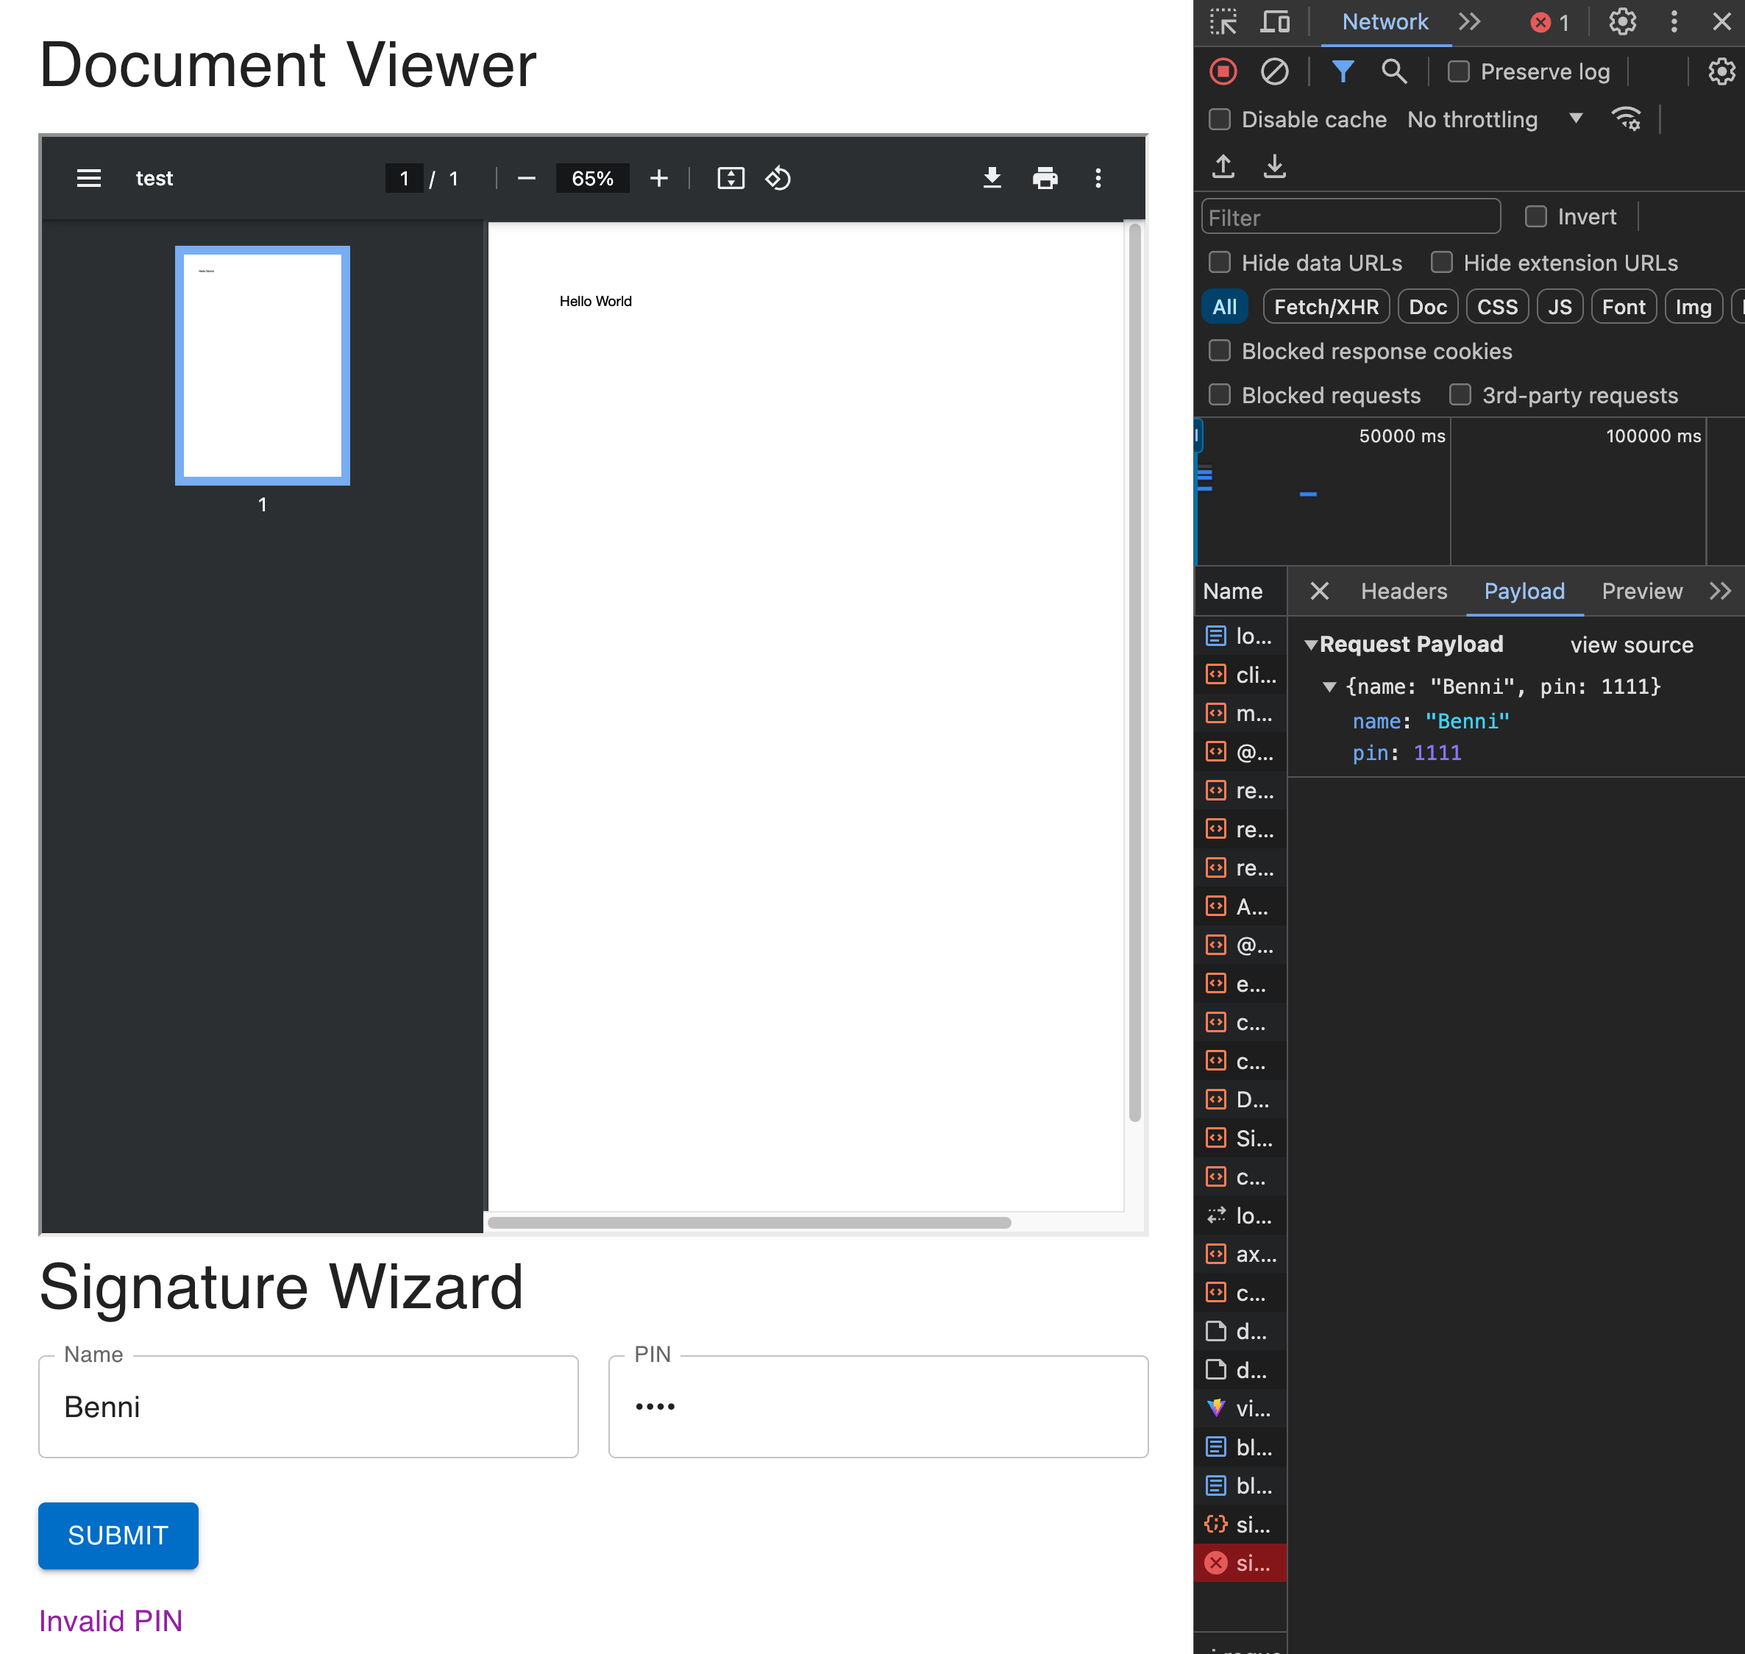
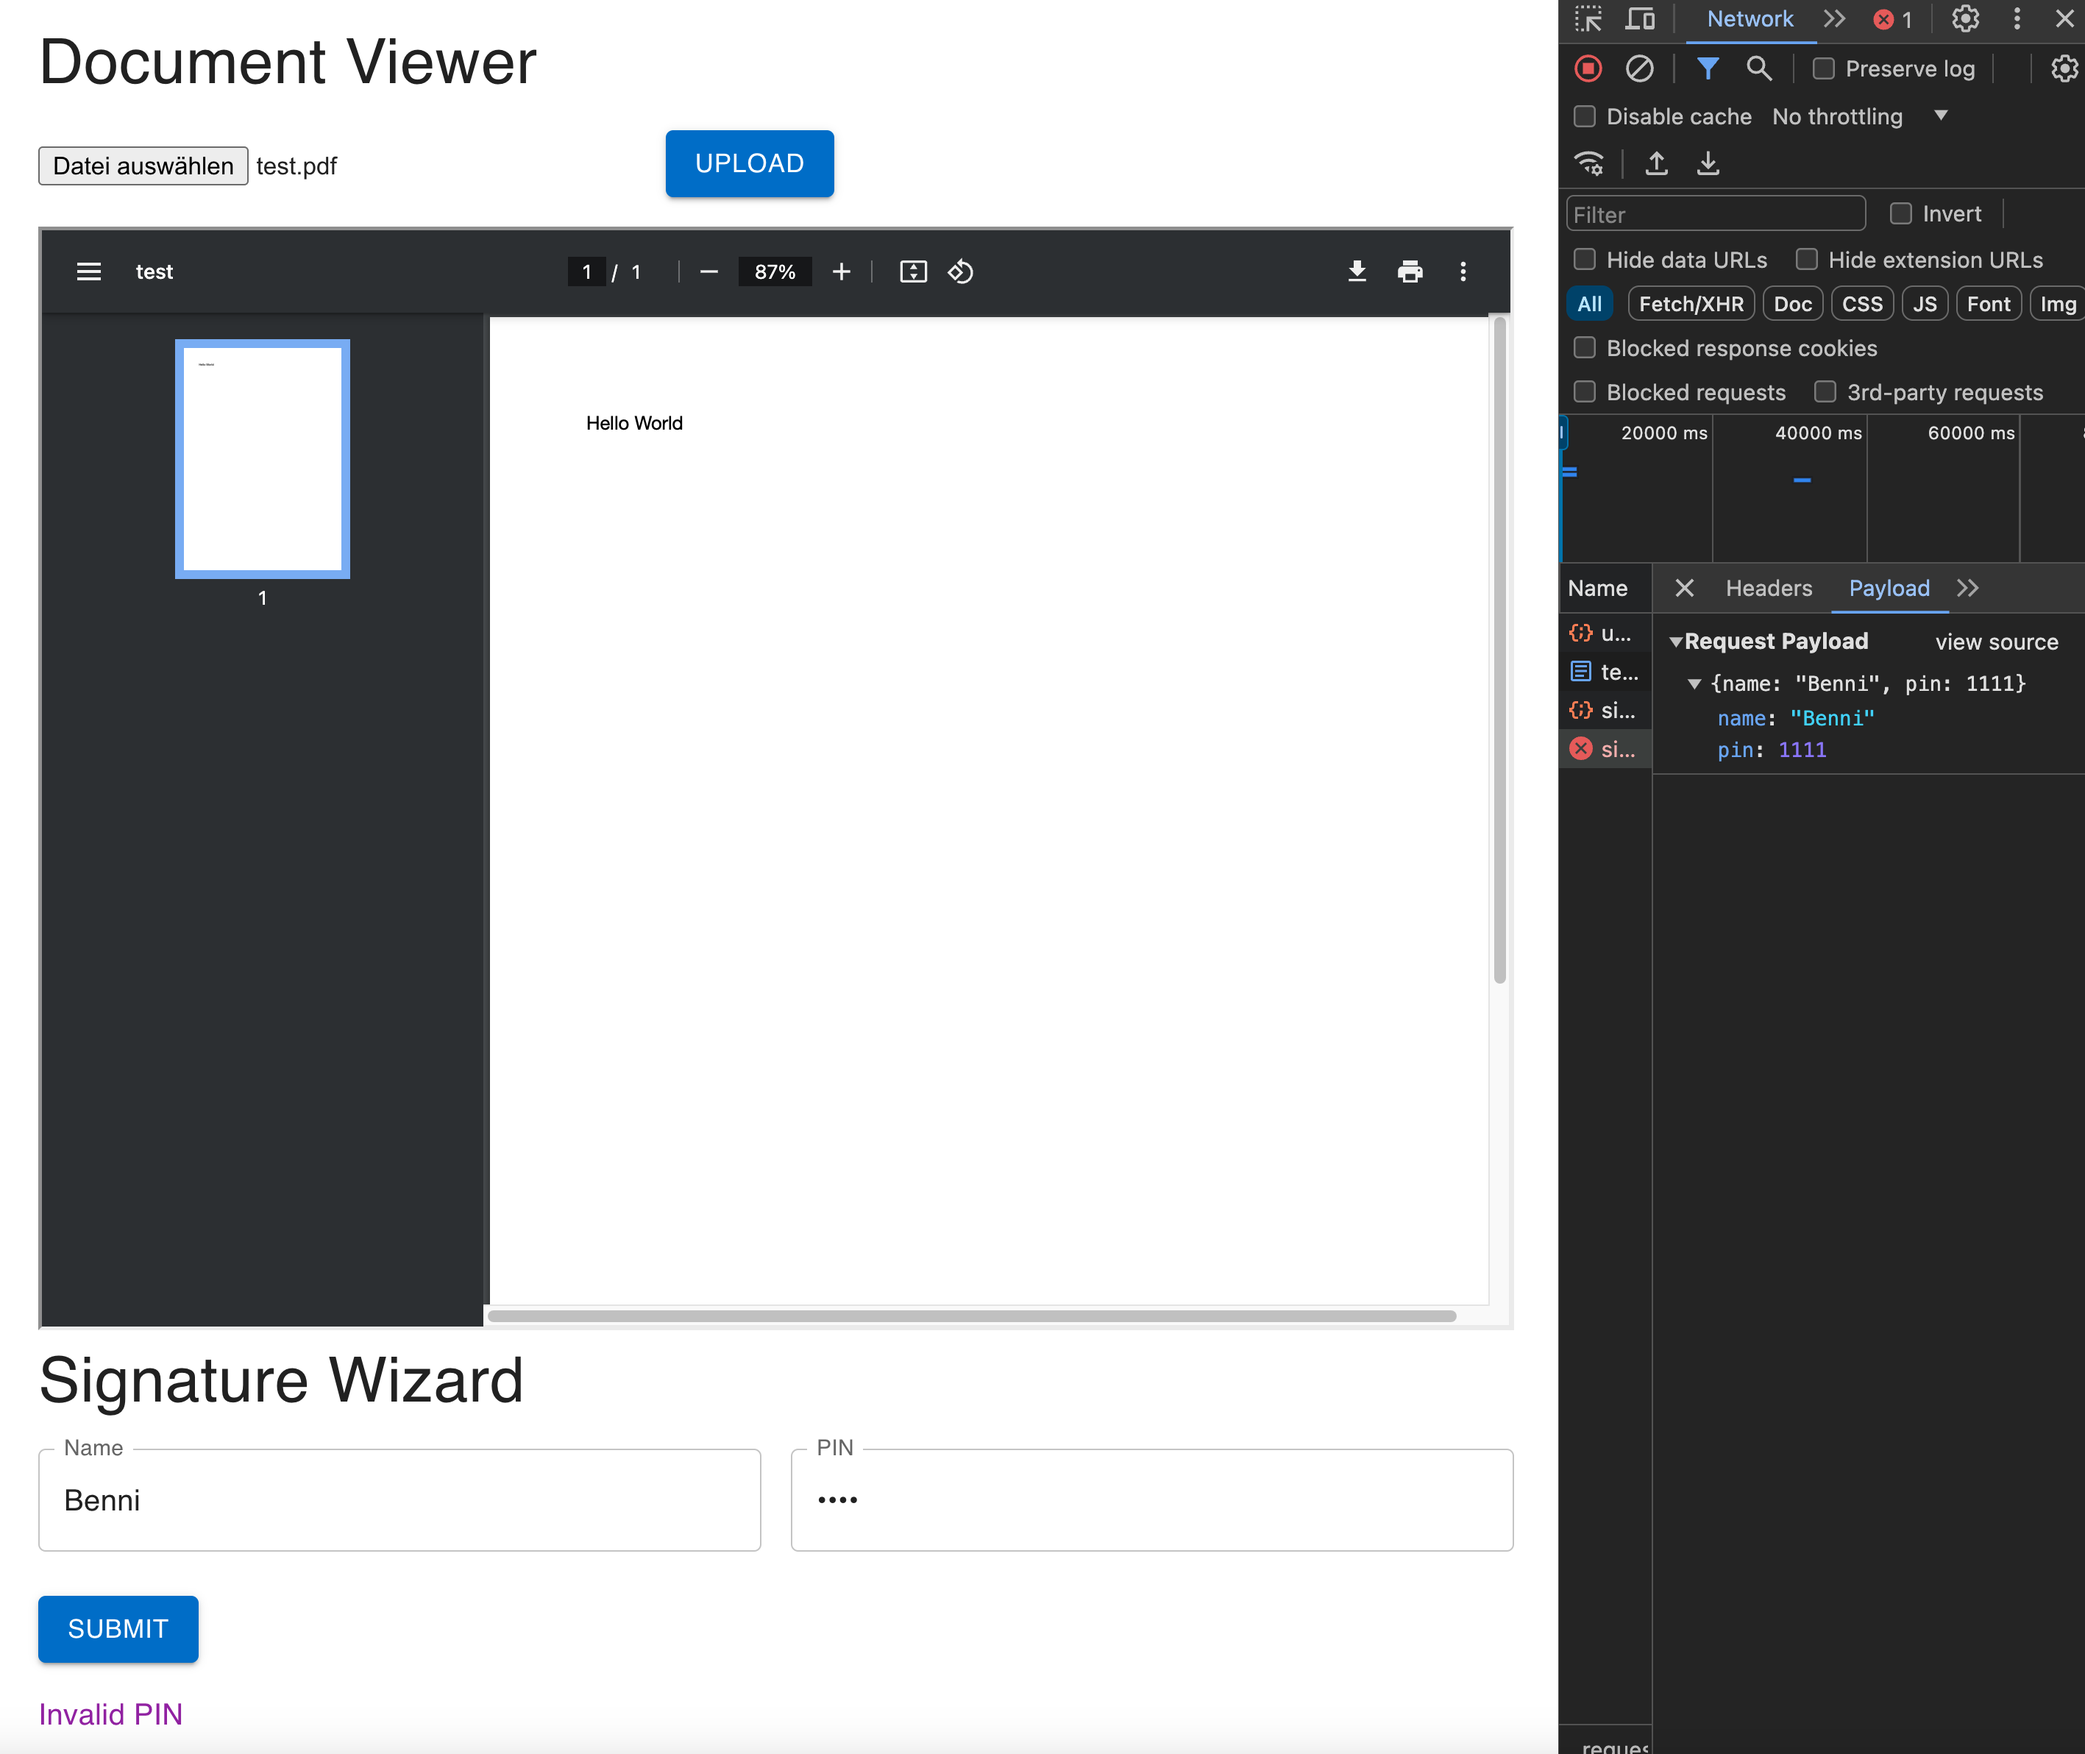
update pdf file upload

diff --git a/frontend/src/components/DocumentViewer.jsx b/frontend/src/components/DocumentViewer.jsx
@@ -1,23 +1,43 @@
-import React, { useEffect, useState } from "react";
+import React, { useState } from "react";
 import axios from "axios";
-import { Box, Typography } from "@mui/material";
+import { Box, Button, Typography, Grid } from "@mui/material";
 
 const DocumentViewer = () => {
   const [pdfUrl, setPdfUrl] = useState("");
+  const [file, setFile] = useState(null);
+  const [errorMessage, setErrorMessage] = useState("");
 
-  useEffect(() => {
+  const handleFileChange = (e) => {
+    setFile(e.target.files[0]);
+    setErrorMessage("");
+  };
+
+  const handleFileUpload = () => {
+    if (!file) {
+      setErrorMessage("No file selected");
+      return;
+    }
+
+    const formData = new FormData();
+    formData.append("file", file);
+
     axios
-      .get("/api/document", { responseType: "blob" })
+      .post("/api/upload", formData, {
+        headers: {
+          "Content-Type": "multipart/form-data",
+        },
+      })
       .then((response) => {
-        const url = window.URL.createObjectURL(
-          new Blob([response.data], { type: "application/pdf" })
-        );
+        const { filename } = response.data;
+        const url = `/api/document/${filename}`;
         setPdfUrl(url);
+        setErrorMessage("");
       })
       .catch((error) => {
-        console.error("Error fetching the document:", error);
+        console.error("Error uploading the document:", error);
+        setErrorMessage("Error uploading the document");
       });
-  }, []);
+  };
 
   return (
     <Box>
@@ -30,9 +50,35 @@ const DocumentViewer = () => {
       >
         Document Viewer
       </Typography>
-      {pdfUrl && (
-        <iframe src={pdfUrl} width="100%" height="600px" title="PDF Document" />
+      <Grid container spacing={2} alignItems="center">
+        <Grid item xs={12} sm={5}>
+          <input type="file" onChange={handleFileChange} />
+        </Grid>
+        <Grid item xs={12} sm={6}>
+          <Button
+            variant="contained"
+            color="primary"
+            onClick={handleFileUpload}
+          >
+            Upload
+          </Button>
+        </Grid>
+      </Grid>
+      {errorMessage && (
+        <Typography variant="body2" color="error" sx={{ marginTop: 2 }}>
+          {errorMessage}
+        </Typography>
       )}
+      <Box sx={{ marginTop: 2 }}>
+        {pdfUrl && (
+          <iframe
+            src={pdfUrl}
+            width="100%"
+            height="600px"
+            title="PDF Document"
+          />
+        )}
+      </Box>
     </Box>
   );
 };

diff --git a/backend/index.js b/backend/index.js
@@ -1,16 +1,51 @@
 const express = require("express");
 const bodyParser = require("body-parser");
 const path = require("path");
+const multer = require("multer");
+const fs = require("fs");
 
 const app = express();
 const PORT = 3001;
-const PIN = 1337;
+const PIN = 1337; // Default Pin
+
+const uploadedFiles = new Set();
+
+const uploadDir = path.join(__dirname, "uploads");
+if (!fs.existsSync(uploadDir)) {
+  fs.mkdirSync(uploadDir);
+}
 
 app.use(bodyParser.json());
 
-app.get("/api/document", (req, res) => {
-  const filePath = path.join(__dirname, "test.pdf");
-  res.sendFile(filePath);
+const storage = multer.diskStorage({
+  destination: (req, file, cb) => {
+    cb(null, "uploads/");
+  },
+  filename: (req, file, cb) => {
+    cb(null, file.originalname);
+  },
+});
+
+const upload = multer({ storage });
+
+app.get("/api/document/:filename", (req, res) => {
+  const filePath = path.join(__dirname, "uploads", req.params.filename);
+  if (fs.existsSync(filePath)) {
+    res.sendFile(filePath);
+  } else {
+    res.status(404).json({ message: "File not found" });
+  }
+});
+
+app.post("/api/upload", upload.single("file"), (req, res) => {
+  if (!req.file) {
+    return res.status(400).json({ message: "No file uploaded" });
+  }
+  uploadedFiles.add(req.file.originalname);
+  res.status(200).json({
+    message: "File uploaded successfully",
+    filename: req.file.originalname,
+  });
 });
 
 app.post("/api/signature", (req, res) => {
@@ -18,6 +53,10 @@ app.post("/api/signature", (req, res) => {
 
   if (pin !== PIN) {
     return res.status(401).json({ message: "Invalid PIN" });
+  }
+
+  if (uploadedFiles.size === 0) {
+    return res.status(400).json({ message: "No uploaded file" });
   }
 
   // Signature logic

diff --git a/README.md b/README.md
@@ -1,7 +1,5 @@
 # BW_PDF_Signature
 
-Add your `test.pdf` in backend directory
-
 Commands:
 
 cd backend  
